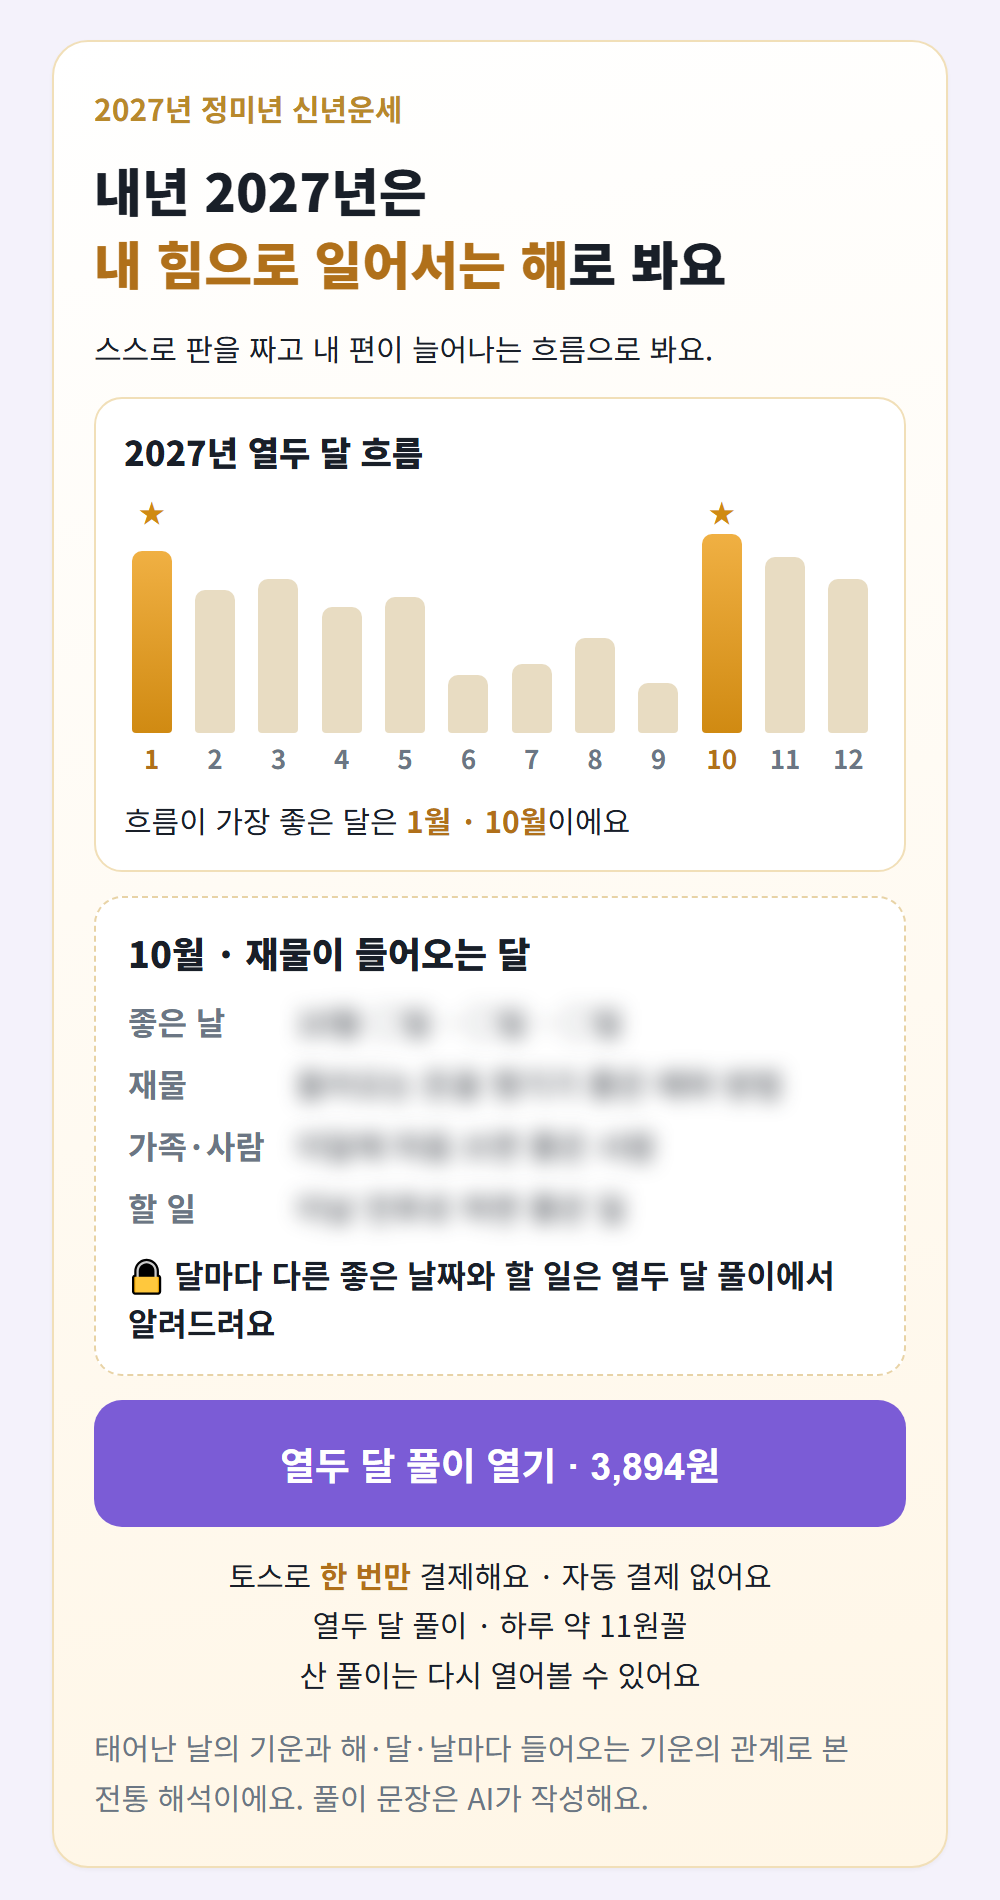
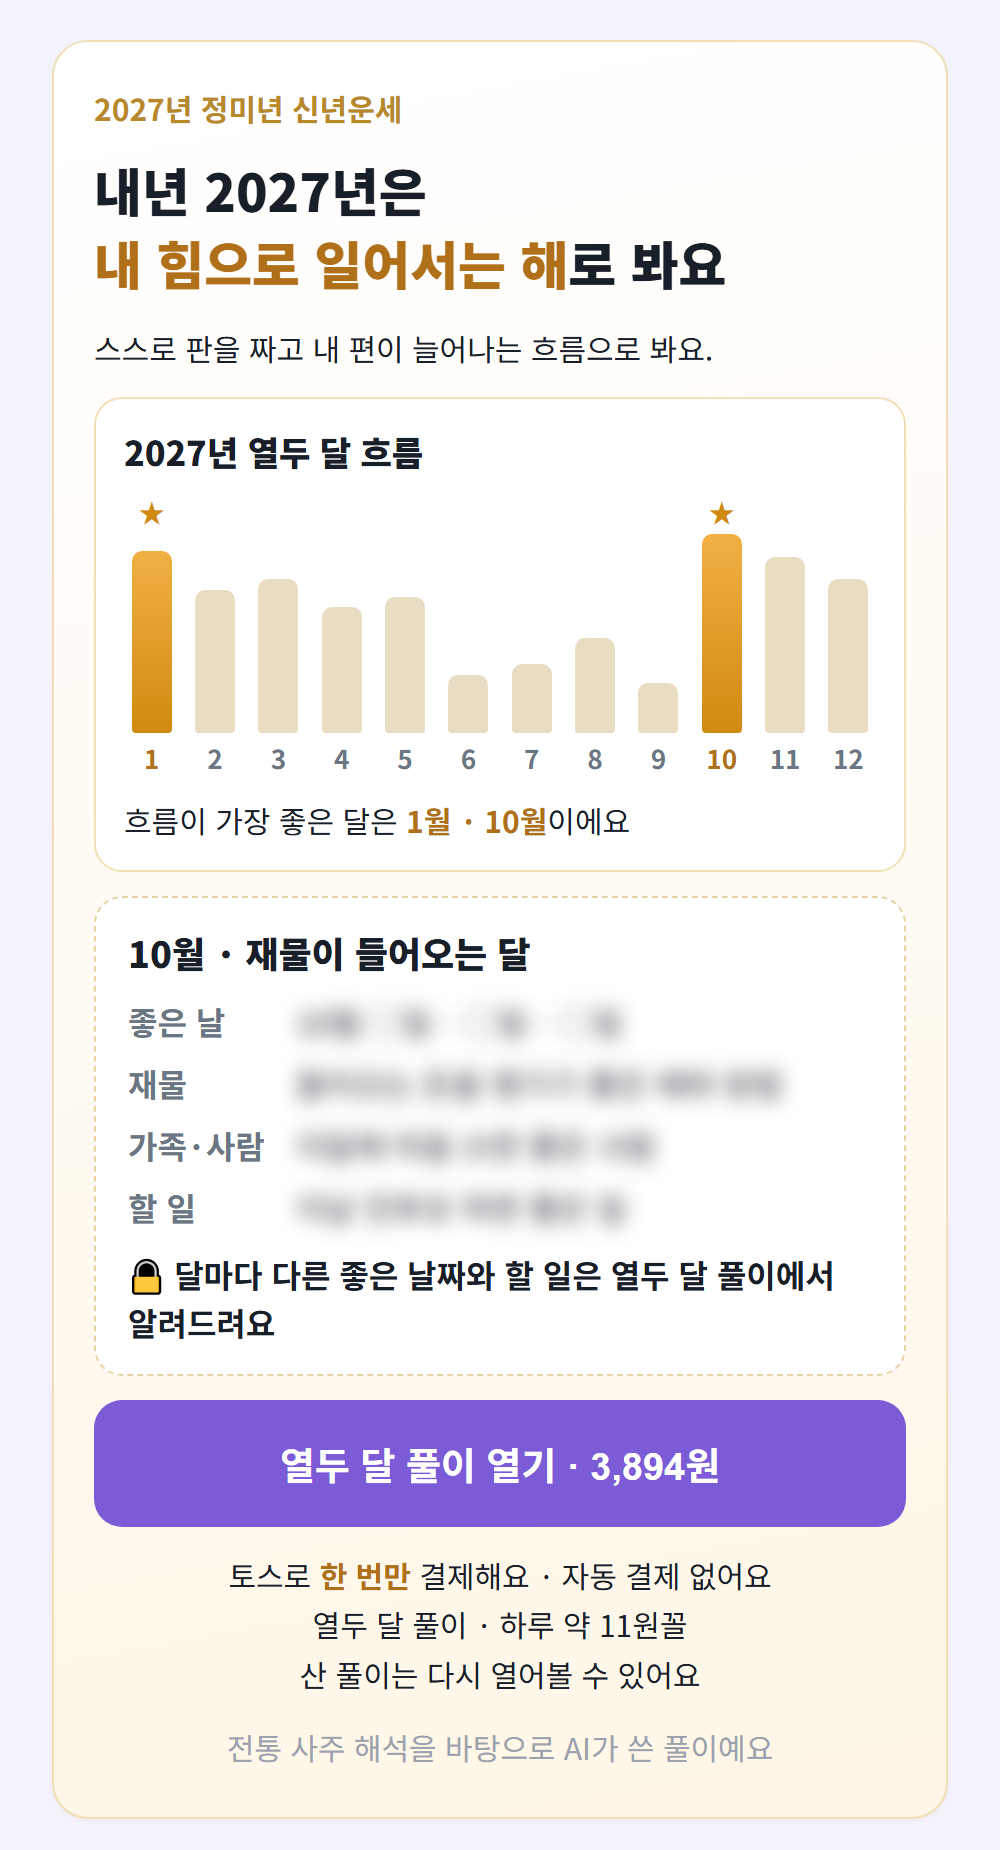
토스 v11 카드: AI 작성 고지를 한 줄로 작게(숨기지는 않음)

diff --git a/toss-mini/src/v11/v11.css b/toss-mini/src/v11/v11.css
@@ -7,7 +7,7 @@
 .ny-cta { font-size: 19px; padding: 18px; }
 .ny-trust { margin: -2px 0 0; text-align: center; font-size: 15px; line-height: 1.6; color: var(--text); }
 .ny-trust b { color: #b0701a; }
-.ny-note { margin: 0; font-size: 13px; color: var(--muted); line-height: 1.5; }
+.ny-note { margin: 0; text-align: center; font-size: 12px; color: #9aa3ad; line-height: 1.4; }
 .ny-flow { background: #fff; border: 1px solid #f1dfb8; border-radius: 14px; padding: 14px 14px 12px; display: flex; flex-direction: column; gap: 10px; }
 .ny-flow-title { font-size: 17px; font-weight: 800; }
 .ny-bars { display: grid; grid-template-columns: repeat(12, 1fr); gap: 4px; height: 140px; align-items: end; }

diff --git a/toss-mini/src/v11/NewYearTeaser.tsx b/toss-mini/src/v11/NewYearTeaser.tsx
@@ -114,7 +114,8 @@ export function NewYearTeaser({ result, priceLabel, pricePerDay, variant = "A", 
           산 풀이는 다시 열어볼 수 있어요
         </p>
       )}
-      <p className="ny-note">태어난 날의 기운과 해·달·날마다 들어오는 기운의 관계로 본 전통 해석이에요. 풀이 문장은 AI가 작성해요.</p>
+      {/* AI 작성 고지: 결제 전 알림(인공지능기본법·소비자 고지) — 작게 줄이되 숨기지 않는다 */}
+      <p className="ny-note">전통 사주 해석을 바탕으로 AI가 쓴 풀이예요</p>
     </section>
   );
 }
